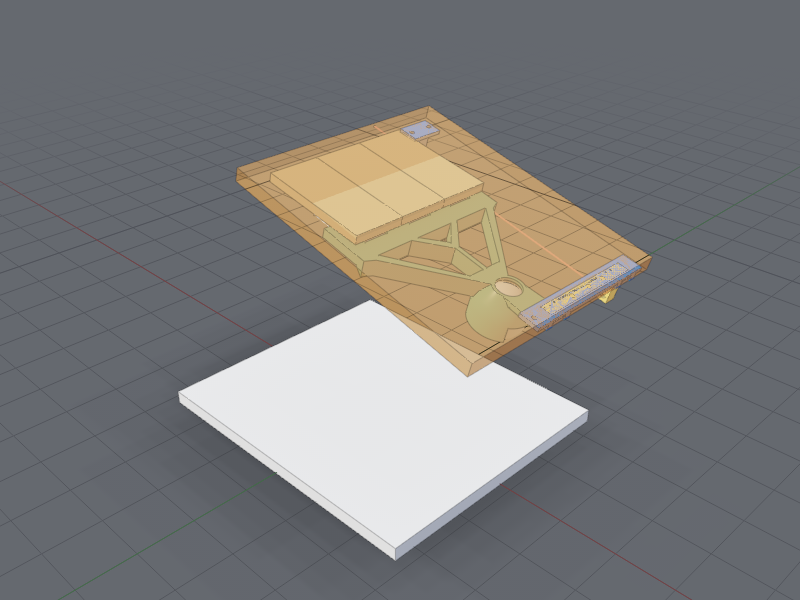
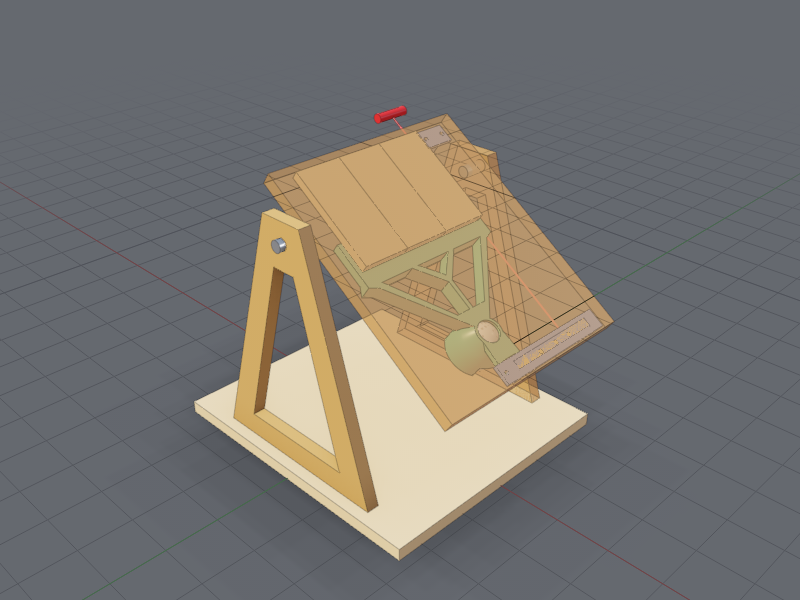
Mount mousetrap bases 0.00-deg flat to trajectory board and assert flush contact

Changed region(s): [[0.2188, 0.18, 0.8125, 0.93], [0.8438, 0.99, 0.875, 1.0], [0.7812, 0.93, 0.8125, 0.96]]

diff --git a/docs/design_notes.md b/docs/design_notes.md
@@ -3,8 +3,8 @@
 ## Printable Part & Interactive 3D Deliverables (`MTC-180L-PL` Caliper-Exact Positive-Lock PETG)
 
 - **Recommended (`MTC-180L-PL` v3.1 Caliper-Exact Carrier + Distal Sear D-Loop — `~45 g` PETG, `~20 min` on H2S `.6 TC`):**
-  - **Full-Mechanism + Trigger Pull + Ball Launch GIF:** [**Watch `mtc180_full_mechanism_launch.gif`**](https://artifact.harm.org/23m6ws/mtc180_full_mechanism_launch.gif) · *(Earlier carrier-only GIF: [`mtc180_180deg_launch.gif`](https://artifact.harm.org/3d1y54/mtc180_180deg_launch.gif))*
-  - **Interactive 3D Viewer:** [Full Triggered Wood-Board Assembly](https://3dviewer.harm.org/#model=https://3dviewer.harm.org/models/wtqe11/mtc180_triggered_assembly.glb) · [3-Part Trigger Kit](https://3dviewer.harm.org/#model=https://3dviewer.harm.org/models/dzgs4h/mtc180_trigger_kit.glb) · [Carrier v3](https://3dviewer.harm.org/#model=https://3dviewer.harm.org/models/3hgdg2/mtc180_positivelock_petg.glb)
+  - **Full-Mechanism + Trigger Pull + Ball Launch GIF:** [**Watch `mtc180_full_mechanism_launch.gif`**](https://artifact.harm.org/8jtvrt/mtc180_full_mechanism_launch.gif) · *(Earlier carrier-only GIF: [`mtc180_180deg_launch.gif`](https://artifact.harm.org/3d1y54/mtc180_180deg_launch.gif))*
+  - **Interactive 3D Viewer:** [Full Triggered Wood-Board Assembly (Flat-Mounted Traps)](https://3dviewer.harm.org/#model=https://3dviewer.harm.org/models/5tg10k/mtc180_triggered_assembly.glb) · [3-Part Trigger Kit](https://3dviewer.harm.org/#model=https://3dviewer.harm.org/models/dzgs4h/mtc180_trigger_kit.glb) · [Carrier v3](https://3dviewer.harm.org/#model=https://3dviewer.harm.org/models/3hgdg2/mtc180_positivelock_petg.glb)
   - **Carrier v3.1 + Trigger Kit Bundle ([`bundle.zip`](https://artifact.harm.org/0tq7z7/_artifact/bundle.zip) · [All Files](https://artifact.harm.org/0tq7z7/_artifact/)):** Carrier H2S 3MF [`mtc180_positivelock_petg_h2s.3mf`](https://artifact.harm.org/0tq7z7/mtc180_positivelock_petg_h2s.3mf?download=1) · Carrier STL [`mtc180_positivelock_petg.stl`](https://artifact.harm.org/0tq7z7/mtc180_positivelock_petg.stl?download=1) · Carrier A3 [`PDF`](https://artifact.harm.org/0tq7z7/mtc180_positivelock_petg_drawing.pdf) · **Trigger Kit H2S 3MF** [`mtc180_trigger_kit_h2s.3mf`](https://artifact.harm.org/0tq7z7/mtc180_trigger_kit_h2s.3mf?download=1) · **Trigger Kit STL** [`mtc180_trigger_kit.stl`](https://artifact.harm.org/0tq7z7/mtc180_trigger_kit.stl?download=1) · **Trigger Kit 1:1 A3 [`PDF`](https://artifact.harm.org/0tq7z7/mtc180_trigger_kit_drawing.pdf)**
 - **Fast 1:1 Crossbar Bail-Fit Verification Coupon (`X = 19.5..60.0 mm`, `40.5 × 146.5 × 8.2 mm` — Physically Test-Fit Verified):**
   - **Interactive 3D Viewer:** [Open 1:1 Crossbar Fit Coupon](https://3dviewer.harm.org/#model=https://3dviewer.harm.org/models/8zr17w/mtc180_crossbar_fit_coupon.glb)

diff --git a/README.md b/README.md
@@ -2,7 +2,7 @@
 
 ![Complete MTC-180 Launch Sequence (Rear Pull-String -> Front Coaxial Sear -> 180° Sweep -> Golf Ball Trajectory)](docs/images/mtc180_full_mechanism_launch.gif)
 
-Parametric [Cadpole](https://github.com/halbritt/cadpole) CAD and [CalculiX 2.23](http://www.dhondt.de/) `C3D8I` two-phase FDM PETG finite-element model for a single 3D-printed carrier that attaches directly to three stripped mousetrap U-bails (torsion springs + U-bails only; factory bait pedals and trigger hold-down wires removed) and carries a regulation golf ball (`Ø42.67 mm`, `45.93 g`) through the full `180°` sweep. Launch angle is set by tilting the mousetrap mounting plane ($\gamma_{\text{launch}} = 90^\circ - \beta_{\text{horiz}}$).
+Parametric [Cadpole](https://github.com/halbritt/cadpole) CAD and [CalculiX 2.23](http://www.dhondt.de/) `C3D8I` two-phase FDM PETG finite-element model for a single 3D-printed carrier that attaches directly to three stripped mousetrap U-bails (torsion springs + U-bails only; factory bait pedals and trigger hold-down wires removed) and carries a regulation golf ball (`Ø42.67 mm`, `45.93 g`) from parallel-cocked (`+180°`) to snapped-shut (`-3.37°` against the flat wood bases, `183.37°` total sweep). Mousetrap bases mount dead flat (`0.00°`) to the adjustable trajectory board ($\gamma_{\text{launch}} = 93.37^\circ - \beta_{\text{horiz}}$).
 
 ## Caliper-Measured Hardware Inputs
 
